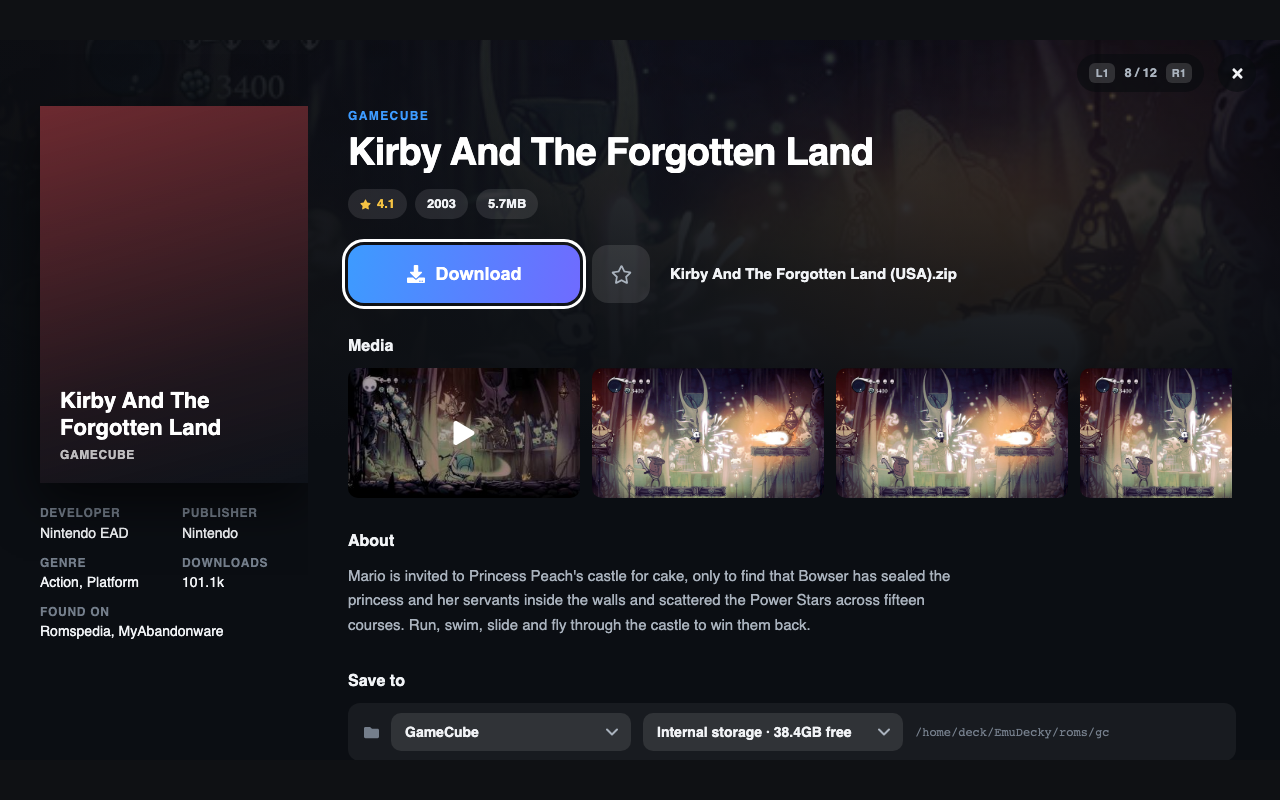
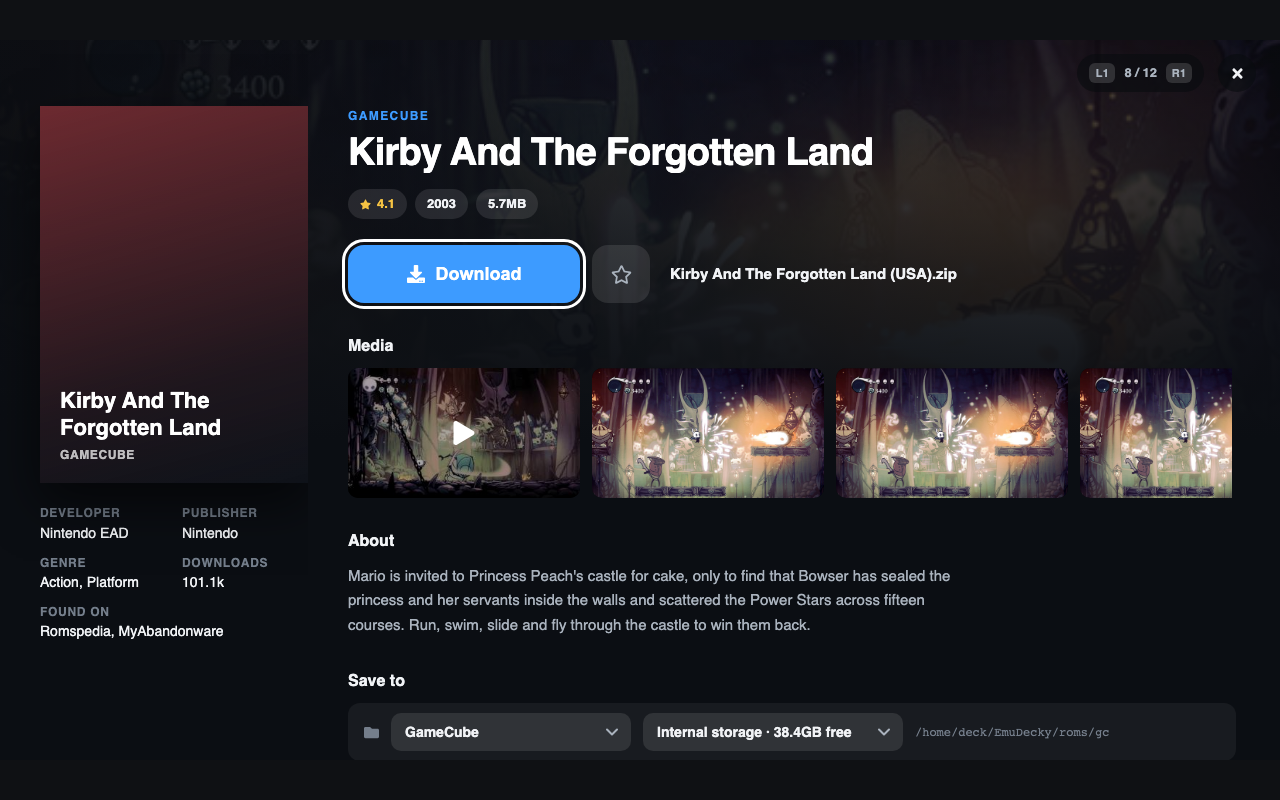
Keep emulator folders out of the library; full-width poster, flat blue button
- Library: links to folders (Vita3K's InstalledGames), broken links, known
  emulator folders (Cemu's mlc01 and roms, nand, keys, updates, dlc, shader
  caches, ...), folders with only notes or pictures, and anything with less
  than 1 KB of game data per game are not games. Uninstall looks games up
  the same way, so these can no longer be deleted from the Library tab
- Game page: the poster fills the sidebar at the art's own shape again; its
  height is not capped
- Download button and its progress fill are solid blue
- Tests for the emulator folders; Steam test fixtures get realistic sizes

Changed region(s): [[0.3438, 0.2812, 0.4688, 0.4062]]

diff --git a/src/styles.ts b/src/styles.ts
@@ -458,16 +458,11 @@ export const CSS = `
 }
 .rs-close:hover, .rs-close.is-focus { background: rgba(255, 255, 255, 0.2); }
 
-/* A size container, so the poster can be measured against the column's height. */
-.rs-page-side { position: relative; display: flex; flex-direction: column; gap: 22px; min-width: 0; min-height: 0; overflow: hidden; padding: 66px 0 28px 40px; container-type: size; }
-/* The poster has its art's shape (--rs-ratio, width / height). A tall cover
-   is made narrower rather than shorter: capping the height of a full-width
-   frame would squash it towards a square and letterbox the art. */
-.rs-poster {
-  position: relative; flex: 0 0 auto; overflow: hidden; background: #05070a; box-shadow: 0 20px 48px rgba(0, 0, 0, 0.6);
-  width: 100%;
-  width: min(100%, calc(66cqh * var(--rs-ratio, 0.714)));
-}
+.rs-page-side { position: relative; display: flex; flex-direction: column; gap: 22px; min-width: 0; min-height: 0; overflow: hidden; padding: 66px 0 28px 40px; }
+/* The poster fills the column's width and has its art's shape. Its height is
+   never capped: a capped full-width frame squashes the art towards a square.
+   The facts under it take what is left of the column. */
+.rs-poster { position: relative; flex: 0 0 auto; width: 100%; overflow: hidden; background: #05070a; box-shadow: 0 20px 48px rgba(0, 0, 0, 0.6); }
 /* Two columns: five facts under a tall poster still fit the 720px screen. */
 .rs-facts { margin: 0; display: grid; grid-template-columns: minmax(0, 1fr) minmax(0, 1fr); gap: 12px 16px; align-content: start; min-height: 0; overflow: hidden; }
 .rs-fact { min-width: 0; }
@@ -505,14 +500,14 @@ export const CSS = `
   flex: 0 0 auto !important; width: auto !important; min-width: 232px !important;
   height: 58px !important; padding: 0 30px !important;
   border: none !important; border-radius: 16px !important;
-  background: linear-gradient(100deg, var(--rs-accent) 0%, var(--rs-accent-2) 100%) !important;
+  background: var(--rs-accent) !important;
   color: #fff !important; font-size: 18px !important; font-weight: 800 !important; line-height: 1 !important;
   cursor: pointer;
 }
 .rs-store .rs-cta-btn.gpfocus, .rs-store .rs-cta-btn:focus-visible { outline-offset: 3px; }
 .rs-store .rs-cta-btn.busy, .rs-store .rs-cta-btn.quiet { background: var(--rs-surface-2) !important; }
 .rs-store .rs-cta-btn:disabled { opacity: 0.6; }
-.rs-cta-fill { position: absolute; left: 0; top: 0; bottom: 0; background: linear-gradient(100deg, var(--rs-accent), var(--rs-accent-2)); transition: width 200ms linear; }
+.rs-cta-fill { position: absolute; left: 0; top: 0; bottom: 0; background: var(--rs-accent); transition: width 200ms linear; }
 .rs-cta-label { position: relative; display: inline-flex; align-items: center; gap: 11px; }
 .rs-icon-btn {
   flex: 0 0 auto; width: 58px; height: 58px; border-radius: 16px;

diff --git a/backend/library.py b/backend/library.py
@@ -66,15 +66,62 @@ _SKIP_EXTENSIONS = {
     ".part", ".tmp",
 }
 _SKIP_FOLDERS = {"media", "images", "videos", "manuals", "screenshots", "saves", "states", "snap", "downloaded_images"}
+# Emulator storage EmuDeck and the emulators keep inside console folders:
+# Vita3K's InstalledGames, Cemu's mlc01 and its games path "roms", Yuzu /
+# Ryujinx's nand and keys, shader caches, updates, DLC, ...
+_EMULATOR_FOLDERS = {
+    "installedgames", "mlc01", "roms", "nand", "sys", "usr", "sdcard", "ux0",
+    "bios", "firmware", "keys", "shaders", "shadercache", "cache", "content",
+    "update", "updates", "dlc", "patches", "textures", "cheats", "mods",
+    "config", "configs", "logs", "temp", "tmp",
+}
+# No game is smaller, all its files together (a .m3u or .cue alone is tiny,
+# but it comes with its discs), while what emulators leave behind (an empty
+# games path, a stub) often is.
+_MIN_GAME_BYTES = 1024
+
+
+def _counts(name: str) -> bool:
+    """A file name that can belong to a game (not a note, save or picture)."""
+    lower = name.lower()
+    return not (lower.startswith(".") or lower in _SKIP_NAMES or os.path.splitext(lower)[1] in _SKIP_EXTENSIONS)
+
+
+def _has_game_data(path: str) -> bool:
+    """A folder holds at least _MIN_GAME_BYTES of files that can be a game."""
+    total = 0
+    for folder, dirs, files in os.walk(path):
+        dirs[:] = [d for d in dirs if not d.startswith(".")]
+        for name in files:
+            if not _counts(name):
+                continue
+            try:
+                total += os.path.getsize(os.path.join(folder, name))
+            except OSError:
+                continue
+            if total >= _MIN_GAME_BYTES:
+                return True
+    return False
 
 
 def _is_game(entry: os.DirEntry) -> bool:
     name = entry.name.lower()
-    if name.startswith(".") or name in _SKIP_NAMES:
+    if not _counts(name):
         return False
-    if entry.is_dir(follow_symlinks=False):
-        return name not in _SKIP_FOLDERS
-    return os.path.splitext(name)[1] not in _SKIP_EXTENSIONS
+    try:
+        if entry.is_symlink():
+            # EmuDeck links emulator storage (Vita3K's InstalledGames, Cemu's
+            # mlc01) into the console folders. A link to a folder is that,
+            # never a game, and a broken link is nothing at all.
+            if not os.path.exists(entry.path) or os.path.isdir(entry.path):
+                return False
+        elif entry.is_dir(follow_symlinks=False):
+            if name in _SKIP_FOLDERS or name in _EMULATOR_FOLDERS:
+                return False
+            return _has_game_data(entry.path)
+        return True
+    except OSError:
+        return False
 
 
 def _size(path: str) -> int:
@@ -126,6 +173,8 @@ def installed_games(root: str) -> List[Dict[str, Any]]:
         for key, entries in grouped.items():
             entries.sort(key=lambda e: (len(e.name), e.name))
             files = [{"name": e.name, "size": _size(e.path), "folder": e.is_dir(follow_symlinks=False)} for e in entries]
+            if sum(f["size"] for f in files) < _MIN_GAME_BYTES:
+                continue
             try:
                 newest = max(e.stat(follow_symlinks=False).st_mtime for e in entries)
             except OSError:

diff --git a/tests/test_core.py b/tests/test_core.py
@@ -191,7 +191,7 @@ class Library(unittest.TestCase):
 
 
 class Installed(unittest.TestCase):
-    def make(self, root, rel, data=b"x" * 10):
+    def make(self, root, rel, data=b"x" * 2048):
         path = os.path.join(root, rel)
         os.makedirs(os.path.dirname(path), exist_ok=True)
         with open(path, "wb") as fh:
@@ -200,11 +200,32 @@ class Installed(unittest.TestCase):
     def test_lists_games_not_notes_or_saves(self):
         root = os.path.join(tempfile.mkdtemp(), "roms")
         for rel in ("gb/Tetris (World).gb", "gb/systeminfo.txt", "gb/Tetris (World).srm", "gb/media/box.png",
-                    "psx/FF7 (USA) (Disc 1).chd", "psx/FF7 (USA) (Disc 2).chd", "psx/FF7 (USA).m3u"):
+                    "psx/FF7 (USA) (Disc 1).chd", "psx/FF7 (USA) (Disc 2).chd"):
             self.make(root, rel)
+        self.make(root, "psx/FF7 (USA).m3u", b"x" * 60)  # tiny, but part of the game
         games = {g["title"]: g for g in installed_games(root)}
         self.assertEqual(set(games), {"Tetris (World)", "FF7 (USA)"})
         self.assertEqual(len(games["FF7 (USA)"]["files"]), 3)
+
+    def test_emulator_folders_are_not_games(self):
+        home = tempfile.mkdtemp()
+        root = os.path.join(home, "roms")
+        # Vita3K: EmuDeck links the emulator's installed games into the folder.
+        self.make(home, "Emulation/storage/Vita3K/ux0/app/PCSE00000/eboot.bin")
+        os.makedirs(os.path.join(root, "psvita"))
+        os.symlink(os.path.join(home, "Emulation/storage/Vita3K/ux0/app"), os.path.join(root, "psvita", "InstalledGames"))
+        # Cemu: its storage, its (empty) games path, a broken link.
+        self.make(root, "wiiu/mlc01/sys/title/data.bin")
+        self.make(root, "wiiu/roms/systeminfo.txt", b"x" * 521)
+        os.symlink(os.path.join(home, "gone"), os.path.join(root, "wiiu", "Broken"))
+        # A stub file and a folder with only notes in it.
+        self.make(root, "gb/placeholder.gb", b"x" * 100)
+        self.make(root, "gb/Notes/readme.txt")
+        # Real games: a file, and a game that is a folder.
+        self.make(root, "gb/Tetris (World).gb")
+        self.make(root, "dos/Doom/DOOM.EXE")
+        games = {g["title"] for g in installed_games(root)}
+        self.assertEqual(games, {"Tetris (World)", "Doom"})
 
     def test_uninstall_removes_the_game_only(self):
         home = tempfile.mkdtemp()

diff --git a/tests/test_steam.py b/tests/test_steam.py
@@ -23,7 +23,8 @@ class SteamPlan(unittest.TestCase):
                     "psx/FF7 (USA) (Disc 1).chd", "psx/FF7 (USA) (Disc 2).chd", "psx/FF7 (USA).m3u"):
             path = os.path.join(self.roms, rel)
             os.makedirs(os.path.dirname(path), exist_ok=True)
-            open(path, "w").close()
+            with open(path, "wb") as fh:
+                fh.write(b"x" * 2048)  # nothing under 1 KB counts as a game
         srm = os.path.join(self.home, ".config/steam-rom-manager/userData")
         os.makedirs(srm)
         with open(os.path.join(srm, "userSettings.json"), "w") as fh:

diff --git a/AGENTS.md b/AGENTS.md
@@ -432,7 +432,10 @@ Steam only reads at start), so the plugin does its job live:
   download of the game had, else IGDB (cached; uncached titles are looked up
   in the background, so they have art the next time)): every
   console folder of the library, files of one game grouped by `match_title()` (discs + .m3u), EmuDeck
-  notes, saves and media folders skipped. `uninstall(root, id)` looks the game
+  notes, saves and media folders skipped. Emulator storage is not a game
+  either: links to folders (Vita3K's `InstalledGames`), known emulator
+  folders (`mlc01`, Cemu's `roms`, `nand`, `keys`, `updates`, ...; see
+  `_EMULATOR_FOLDERS`), and anything under 1 KB of game data. `uninstall(root, id)` looks the game
   up again by id (the UI never sends paths) and deletes only entries directly
   inside a console folder that is itself a direct child of the library; a
   symlink is removed, never its target. The UI asks first, Keep focused.

diff --git a/README.md b/README.md
@@ -207,7 +207,8 @@ first, largest first or A to Z. On top it shows how full each drive is.
 **A** on a game asks before it removes anything ("Delete 3 files, 963 MB? This
 cannot be undone.", with *Keep* selected; **B** also keeps) and then removes
 that game's files: all discs of a multi-disc game together. **Y** opens the
-game's store page. Saves, EmuDeck's notes and artwork folders are never
+game's store page. Saves, EmuDeck's notes, artwork folders and emulator storage (Vita3K's
+`InstalledGames`, Cemu's `mlc01`, ...) are not listed and never
 touched, and nothing outside the ROM folders can be deleted.
 
 ## Steam library
